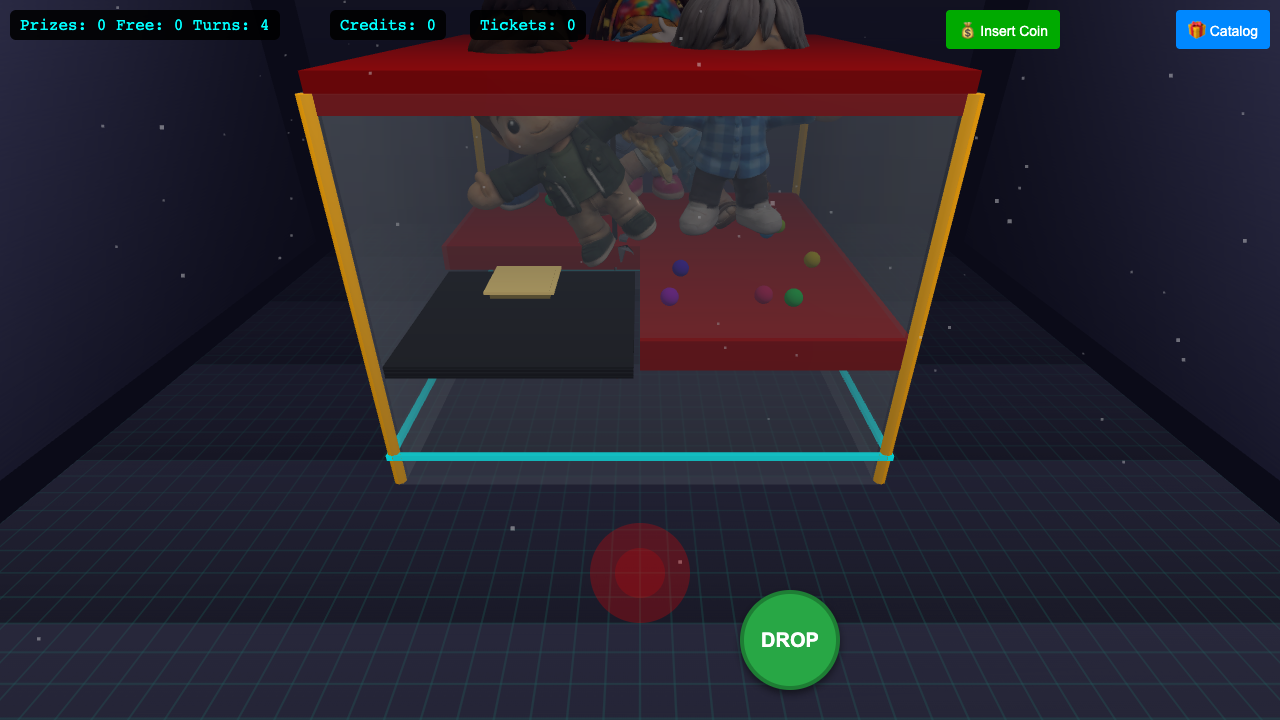
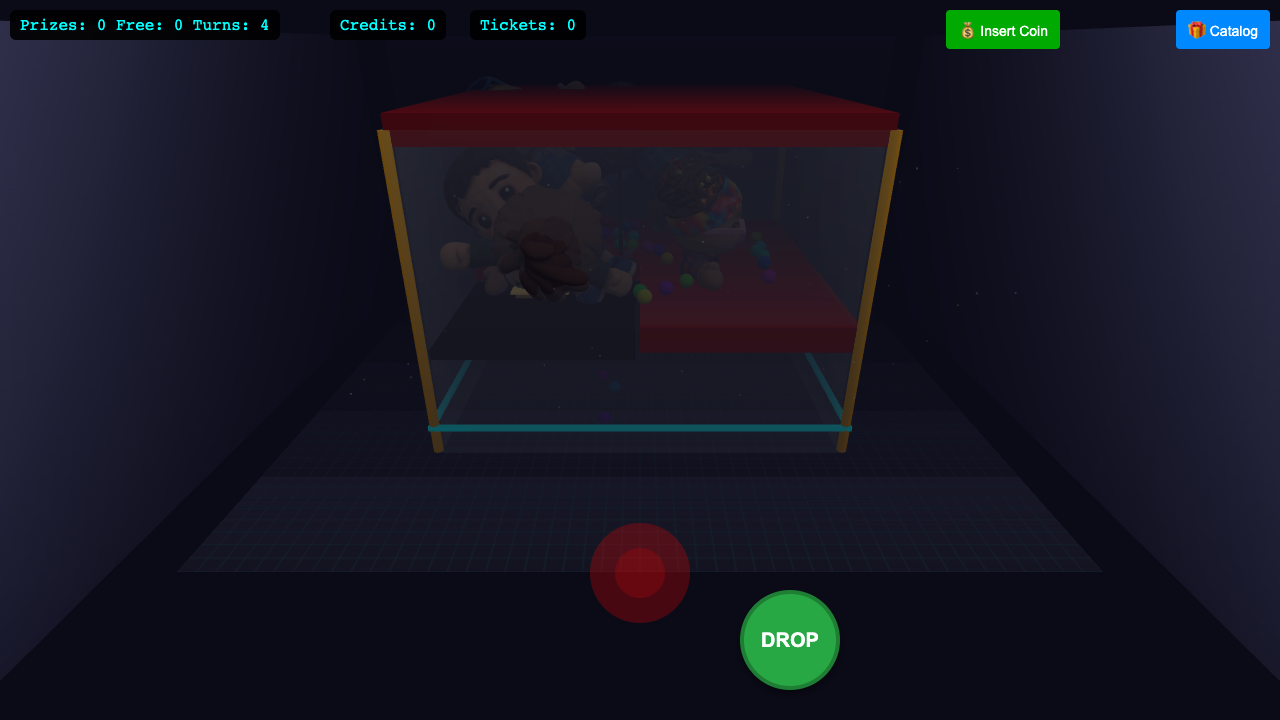
hi

diff --git a/index.html b/index.html
@@ -353,7 +353,7 @@
         // Three.js Setup
         const scene = new THREE.Scene();
         const camera = new THREE.PerspectiveCamera(60, window.innerWidth / window.innerHeight, 0.1, 1000);
-        camera.position.set(0, 70, 120);
+        camera.position.set(0, 100, 200);
         const renderer = new THREE.WebGLRenderer({ canvas: document.querySelector('canvas'), antialias: true });
         renderer.setSize(window.innerWidth, window.innerHeight);
         renderer.setPixelRatio(window.devicePixelRatio);
@@ -362,8 +362,8 @@
         // Controls
         const controls = new OrbitControls(camera, renderer.domElement);
         controls.enablePan = false;
-        controls.minDistance = 50;
-        controls.maxDistance = 300;
+        controls.minDistance = 90;
+        controls.maxDistance = 420;
 
 
         // Lights
@@ -529,7 +529,7 @@
         const lights = new LightManager();
 
 
-        const MACHINE_SCALE = 10;
+        const MACHINE_SCALE = 14;
         const WORLD_SCALE = MACHINE_SCALE;
 
         // Physics
@@ -792,7 +792,7 @@
             return { x: 0, z: 0 };
         }
 
-        for (let i = 0; i < 10; i++) {
+        for (let i = 0; i < 40; i++) {
             // 5x absolute scale (relative to original) means 0.5 local scale inside 10x machine
             const b = new THREE.Mesh(
                 new THREE.SphereGeometry(0.15, 16, 16),
